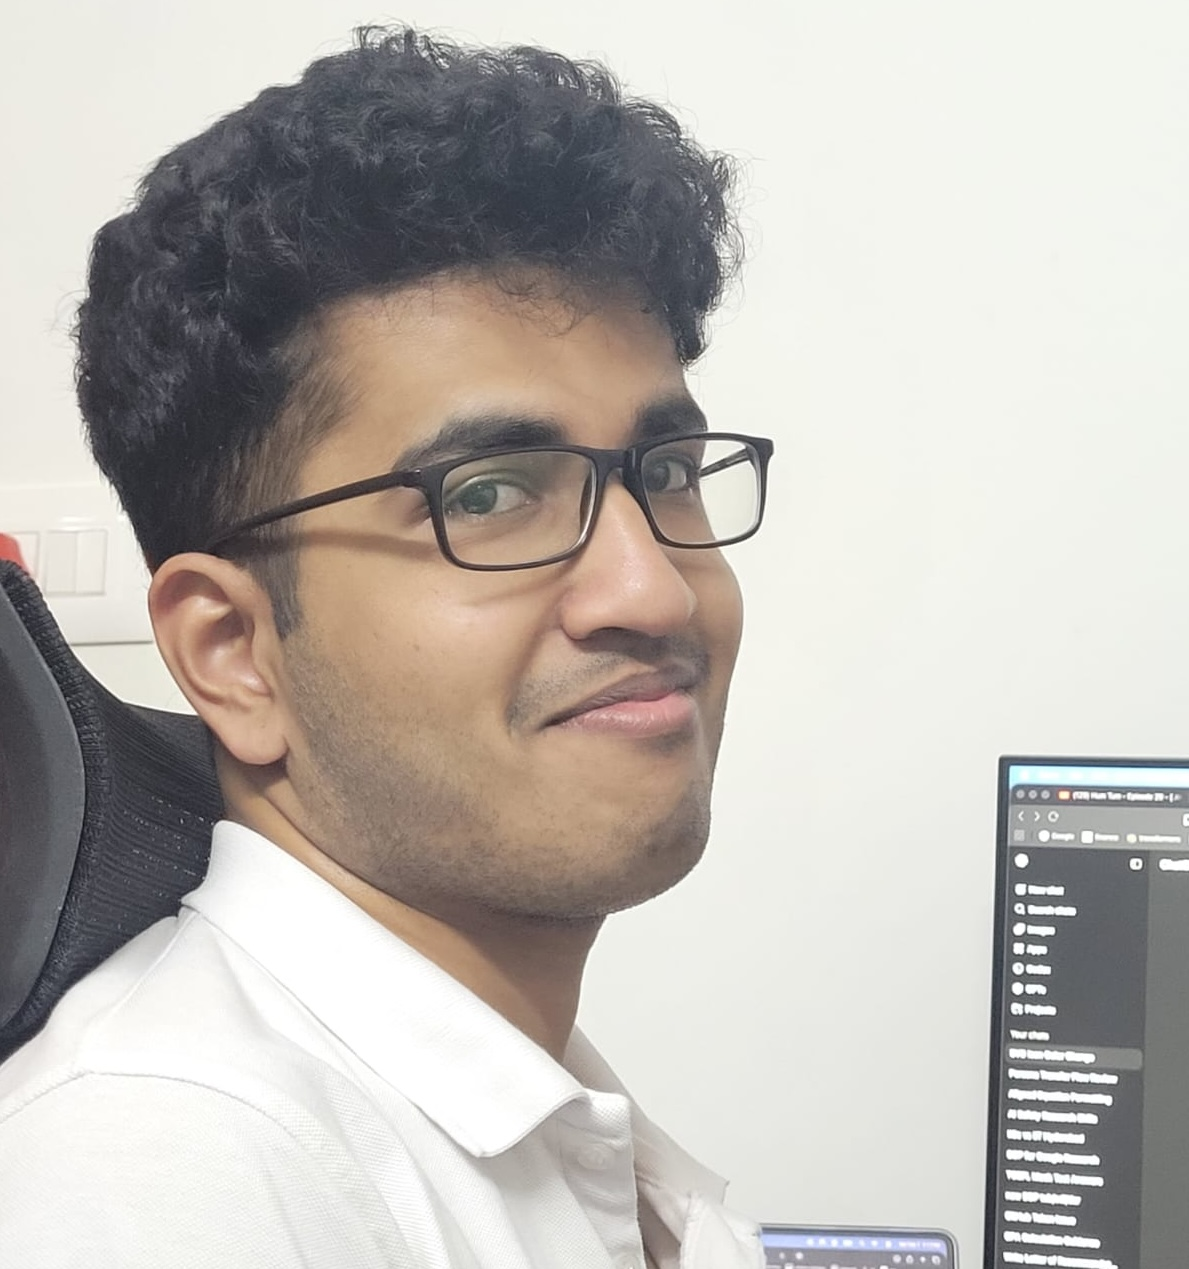
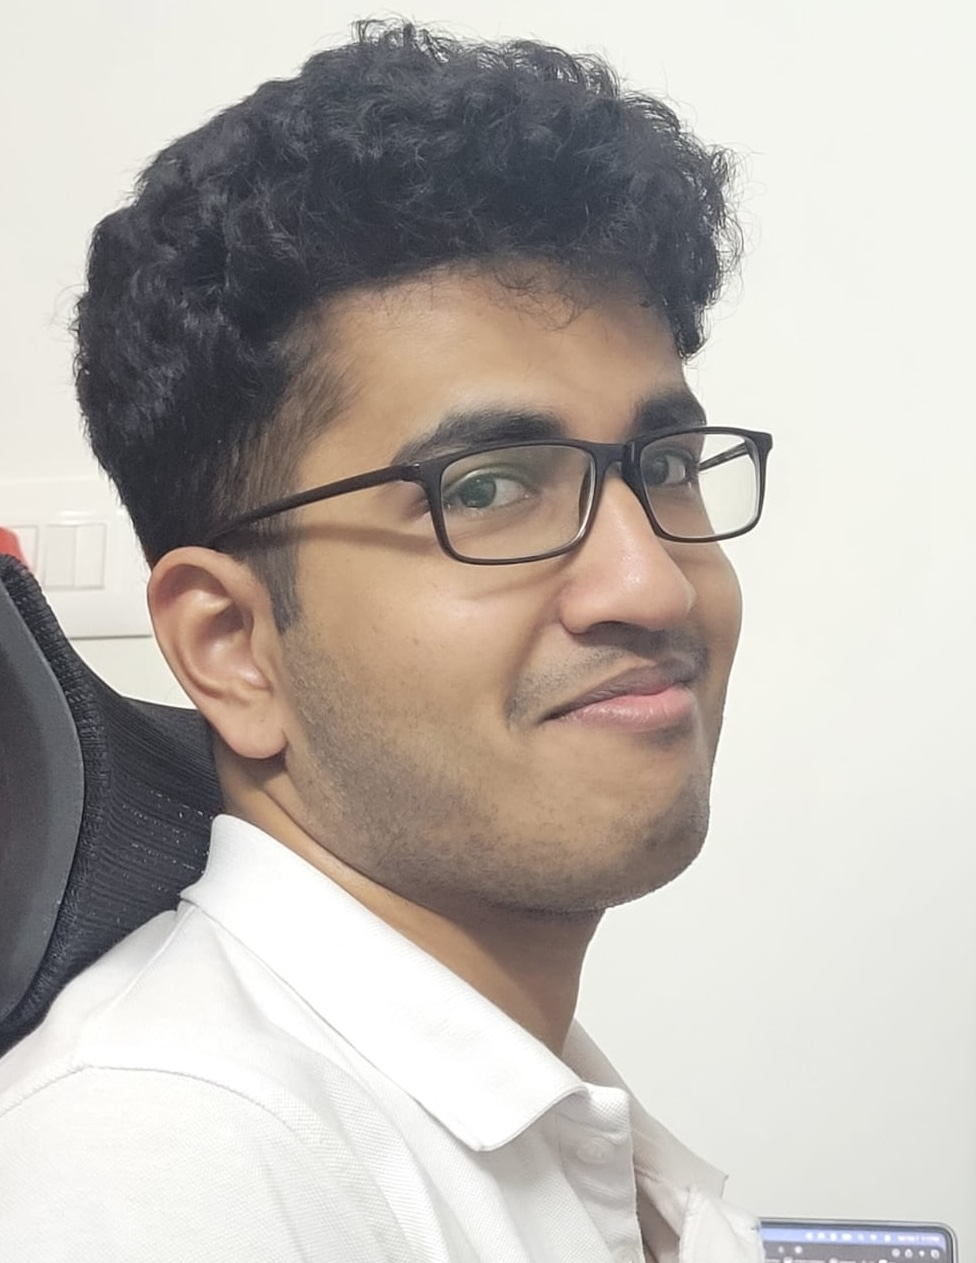
fix img

diff --git a/_pages/about.md b/_pages/about.md
@@ -6,7 +6,7 @@ subtitle: AI researcher, Developer, Student
 
 profile:
   align: right
-  image: person.jpg
+  image: preview.png
   image_circular: false # crops the image to make it circular
   more_info:
 
